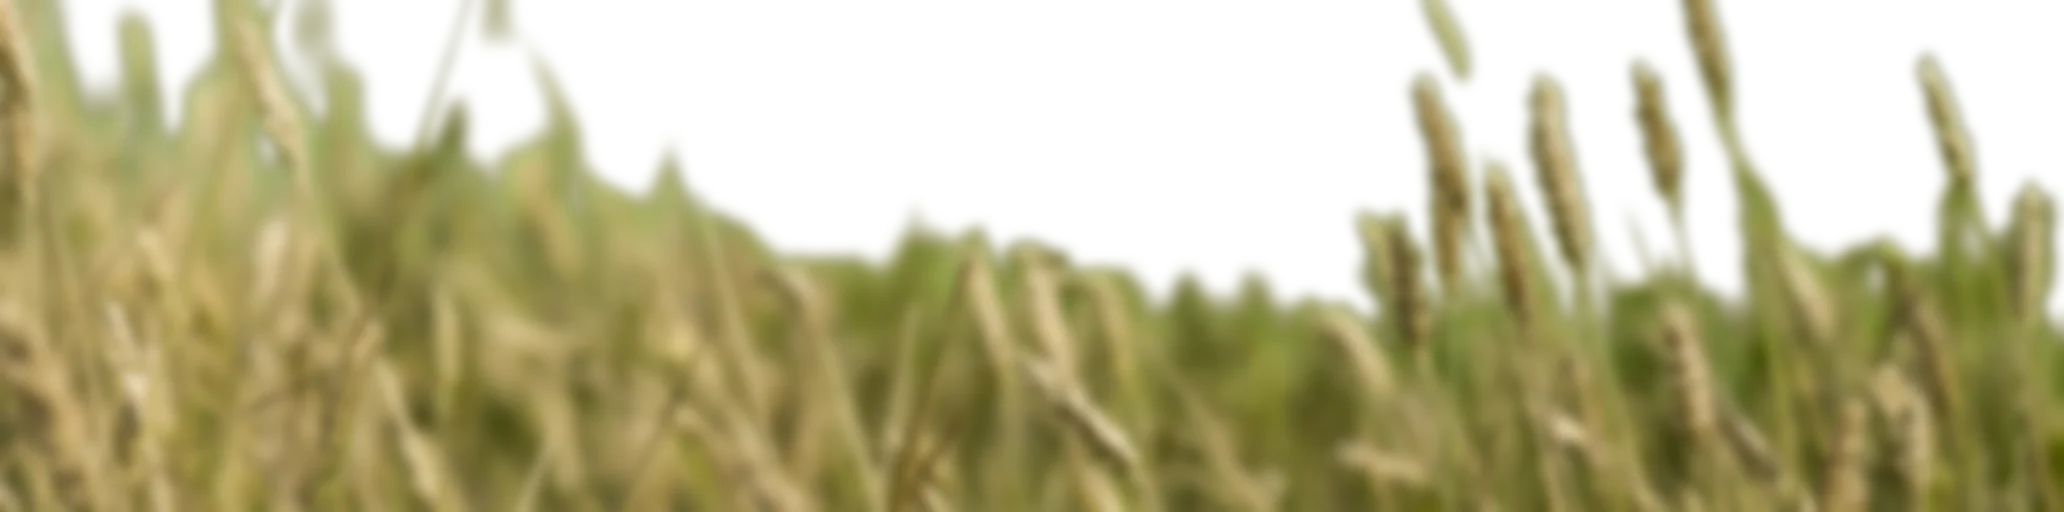
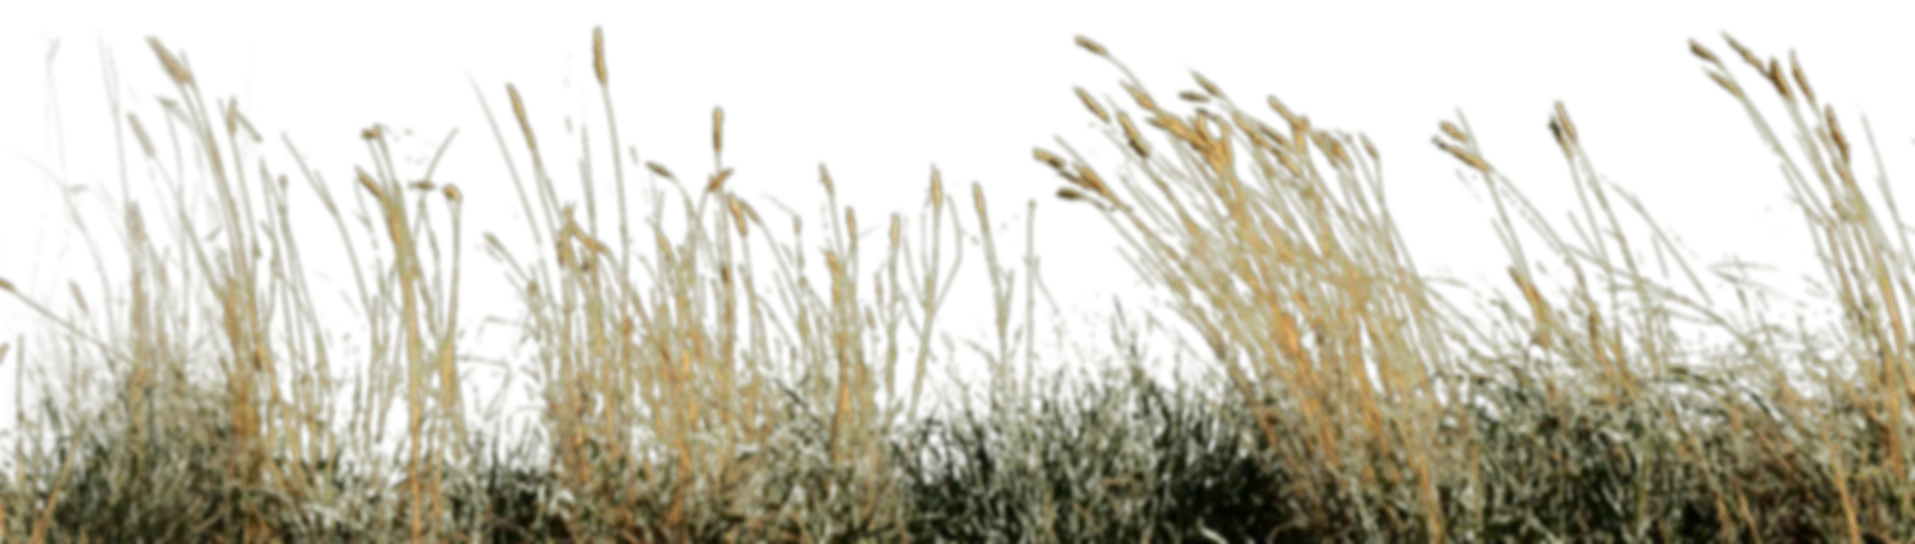
feat(scene): near grass from brief 15 G2; key generator green by sample
prepare.py keys the backdrop by its own colour, cross-fades the edges
into a seamless tile and blurs less, so thin stems survive. The intake
check samples the backdrop too.

diff --git a/src/app/scene/scene.model.ts b/src/app/scene/scene.model.ts
@@ -24,7 +24,7 @@ export const PHOTO = {
   berm: { width: 1792, height: 447, topPx: 8, basePx: 386 },
   ground: { width: 1792, height: 355, bermPx: 112 },
   gong: { width: 695, height: 901, plateDiameterPx: 389, plateCentrePx: { x: 350, y: 322 }, standBottomPx: 899 },
-  grass: { width: 2064, height: 512 },
+  grass: { width: 1915, height: 544 },
 } as const;
 
 export const HIT_MARK_COUNT = 5;

diff --git a/tools/scene/prepare.py b/tools/scene/prepare.py
@@ -1,9 +1,10 @@
 # -*- coding: utf-8 -*-
 """Prepares the generated scene photos (docs/design/img) for the scope renderer (public/scene).
 
-Run once after new photos arrive: python tools/scene/prepare.py
+Run once after new photos arrive: python tools/scene/prepare.py [layer ...]
 It prints the measured geometry; scene-layout.ts constants come from that output.
 """
+import sys
 from pathlib import Path
 
 from PIL import Image, ImageFilter
@@ -16,11 +17,17 @@ FILES = {
     'ground': 'Gemini_Generated_Image_e87ywue87ywue87y(3).jpg',
     'gong': 'Gemini_Generated_Image_e87ywue87ywue87y(1).jpg',
     'marks': 'Gemini_Generated_Image_1iaghz1iaghz1iag(1).jpg',
-    'grass': 'Gemini_Generated_Image_e87ywue87ywue87y(2).jpg',
+    'grass': 'dry_grass_stems_and_wheat_seed_heads_rising_from_the_bottom_e_15045f66-683b-45d8-91a5-82ababb012de_1.png',
 }
 WEBP_QUALITY = 86
 # The paint around the generated marks is light grey; it must turn pure white, or 'multiply' darkens the plate in a square.
 MARK_PAINT_LEVEL = 222
+# Brief 15 asks for #00FF00, generators give a dull green: key by distance to the backdrop's own colour.
+KEY_SOLID_DISTANCE = 34
+KEY_SOFT_DISTANCE = 70
+TILE_OVERLAP_SHARE = 0.12
+# The new stems are thin: a stronger blur turns them into ghosts.
+NEAR_GRASS_BLUR_PX = 2.5
 
 
 def load(key):
@@ -175,17 +182,57 @@ def prepare_marks():
     print(f'marks: {len(centres)} sprites {half * 2}x{half * 2} px')
 
 
+def backdrop_green(image):
+    top_row = sorted((image.getpixel((x, 0)) for x in range(0, image.width, 4)), key=lambda pixel: pixel[1])
+    return top_row[len(top_row) // 2][:3]
+
+
+def backdrop_to_alpha(image):
+    rgba = image.convert('RGBA')
+    backdrop = backdrop_green(rgba)
+    pixels = rgba.load()
+    for y in range(image.height):
+        for x in range(image.width):
+            red, green, blue, _ = pixels[x, y]
+            distance = sum((a - b) ** 2 for a, b in zip((red, green, blue), backdrop)) ** 0.5
+            if distance >= KEY_SOFT_DISTANCE:
+                continue
+            despilled = min(green, max(red, blue))
+            alpha = 0 if distance <= KEY_SOLID_DISTANCE else int(255 * (distance - KEY_SOLID_DISTANCE) / (KEY_SOFT_DISTANCE - KEY_SOLID_DISTANCE))
+            pixels[x, y] = (red, despilled, blue, alpha)
+    return rgba
+
+
+def tileable(image):
+    """Cross-fades the right edge into the left one, so copies side by side have no seam."""
+    overlap = int(image.width * TILE_OVERLAP_SHARE)
+    width = image.width - overlap
+    result = image.crop((0, 0, width, image.height))
+    tail = image.crop((width, 0, image.width, image.height))
+    head = image.crop((0, 0, overlap, image.height))
+    ramp = Image.linear_gradient('L').rotate(90).resize((overlap, image.height))
+    result.paste(Image.composite(head, tail, ramp.transpose(Image.FLIP_LEFT_RIGHT)), (0, 0))
+    return result
+
+
 def prepare_grass():
-    grass = chroma_to_alpha(load('grass'))
-    grass = grass.filter(ImageFilter.GaussianBlur(6))
+    grass = tileable(backdrop_to_alpha(load('grass')))
+    grass = grass.filter(ImageFilter.GaussianBlur(NEAR_GRASS_BLUR_PX))
     save(grass, 'grass')
     print(f'grass: {grass.width}x{grass.height}, blurred')
 
 
+
+LAYERS = {
+    'sky': lambda: prepare_sky(),
+    'berm': lambda: prepare_berm(),
+    'ground': lambda: prepare_ground(),
+    'gong': lambda: prepare_gong(),
+    'marks': lambda: prepare_marks(),
+    'grass': lambda: prepare_grass(),
+}
+
+
 if __name__ == '__main__':
-    prepare_sky()
-    prepare_berm()
-    prepare_ground()
-    prepare_gong()
-    prepare_marks()
-    prepare_grass()
+    for layer in sys.argv[1:] or LAYERS:
+        LAYERS[layer]()

diff --git a/tools/assets/check_inbox.py b/tools/assets/check_inbox.py
@@ -34,11 +34,30 @@ SEAM_MAX_COLOUR_STEP = 18
 HORIZON_MAX_WOBBLE = 0.01
 EMPTY_GREEN_SHARE = 0.98
 BORDER_GREEN_SHARE = 0.95
+CHROMA_GREEN = (0, 255, 0)
+GREENISH_MARGIN = 20
+MIN_GREEN_TOP_SHARE = 0.5
+BACKGROUND_MAX_DISTANCE = 70
 
 
-def is_chroma_green(pixel):
+def is_greenish(pixel):
     red, green, blue = pixel[:3]
-    return green > 150 and green - max(red, blue) > 70
+    return green - max(red, blue) > GREENISH_MARGIN
+
+
+def background_reference(image):
+    """Generators rarely give pure #00FF00: the key colour is the median green of the top row."""
+    rgb = image.convert('RGB')
+    top_row = [rgb.getpixel((x, 0)) for x in range(0, rgb.width, max(1, rgb.width // 128))]
+    greens = [pixel for pixel in top_row if is_greenish(pixel)]
+    if len(greens) < len(top_row) * MIN_GREEN_TOP_SHARE:
+        return CHROMA_GREEN
+    return tuple(sorted(pixel[channel] for pixel in greens)[len(greens) // 2] for channel in range(3))
+
+
+def is_background(pixel, reference):
+    distance = math.sqrt(sum((a - b) ** 2 for a, b in zip(pixel[:3], reference)))
+    return is_greenish(pixel) and distance <= BACKGROUND_MAX_DISTANCE
 
 
 @dataclass
@@ -104,8 +123,9 @@ def downsampled(image):
 
 def green_mask(image):
     width, height = image.size
+    reference = background_reference(image)
     pixels = list(image.convert('RGB').getdata())
-    return [[is_chroma_green(pixels[y * width + x]) for x in range(width)] for y in range(height)]
+    return [[is_background(pixels[y * width + x], reference) for x in range(width)] for y in range(height)]
 
 
 def share(values):
@@ -126,12 +146,13 @@ def check_size(verdict, image, spec):
 
 def check_seam(verdict, image):
     rgb = image.convert('RGB')
+    reference = background_reference(rgb)
     width, height = rgb.size
     steps = []
     for y in range(0, height, max(1, height // 64)):
         left = rgb.getpixel((0, y))
         right = rgb.getpixel((width - 1, y))
-        if is_chroma_green(left) and is_chroma_green(right):
+        if is_background(left, reference) and is_background(right, reference):
             continue
         steps.append(sum(abs(a - b) for a, b in zip(left, right)) / 3)
     mean_step = share(steps)
@@ -285,9 +306,10 @@ def check_icon(verdict, image):
 
 def cutout(image):
     rgba = image.convert('RGBA')
+    reference = background_reference(rgba)
     pixels = []
     for red, green, blue, alpha in rgba.getdata():
-        if is_chroma_green((red, green, blue)):
+        if is_background((red, green, blue), reference):
             pixels.append((0, 0, 0, 0))
             continue
         spill_free_green = min(green, max(red, blue))

diff --git a/tools/assets/test_check_inbox.py b/tools/assets/test_check_inbox.py
@@ -13,13 +13,14 @@ import check_inbox as inbox  # noqa: E402
 GREEN = (0, 255, 0)
 FLAG_RED = (224, 72, 47)
 POLE_DARK = (30, 30, 30)
+DARK_GENERATOR_GREEN = (25, 105, 60)
 FLAG_LENGTH_PX = 600
 FLAG_WIDTH_PX = 360
 FOLDS_WIDTH_PX = 60
 
 
-def flag_image(angle_deg, attach=(160, 160), wave_px=0):
-    image = Image.new('RGB', (1024, 1024), GREEN)
+def flag_image(angle_deg, attach=(160, 160), wave_px=0, background=GREEN):
+    image = Image.new('RGB', (1024, 1024), background)
     draw = ImageDraw.Draw(image)
     attach_x, attach_y = attach
     draw.rectangle([attach_x - 4, 0, attach_x + 4, 1023], fill=POLE_DARK)
@@ -49,6 +50,11 @@ class FlagTest(unittest.TestCase):
             result = verdict()
             inbox.check_flag(result, flag_image(angle), f'F1-flag-{angle}-a')
             self.assertEqual(failed(result), set(), (angle, [check.detail for check in result.checks]))
+
+    def test_flag_on_dark_generator_green_passes(self):
+        result = verdict()
+        inbox.check_flag(result, flag_image(45, background=DARK_GENERATOR_GREEN), 'F1-flag-45-a')
+        self.assertEqual(failed(result), set(), [check.detail for check in result.checks])
 
     def test_wrong_angle_fails(self):
         result = verdict()
@@ -153,6 +159,11 @@ class FrameTest(unittest.TestCase):
         cut = inbox.cutout(image)
         self.assertEqual(cut.getpixel((0, 0))[3], 0)
         self.assertEqual(cut.getpixel((1, 0)), FLAG_RED + (255,))
+        lime = Image.new('RGB', (4, 1), (120, 200, 90))
+        lime.putpixel((1, 0), FLAG_RED)
+        lime_cut = inbox.cutout(lime)
+        self.assertEqual(lime_cut.getpixel((0, 0))[3], 0)
+        self.assertEqual(lime_cut.getpixel((1, 0))[3], 255)
 
     def test_task_of_name(self):
         self.assertEqual(inbox.task_of('F2-rail-a'), 'F2-rail')

diff --git a/docs/code/specs/app-scene-photos.md b/docs/code/specs/app-scene-photos.md
@@ -24,7 +24,7 @@
 - **Земля.** Нижняя часть S2 первого набора: от низа вала вниз. В том кадре вал 2 м = 110 px на 300 м, то есть 16,5 px на MIL; земля ниже вала — ~22 MIL, это ровно полоса от цели до ~25 м перед стрелком при глазе в 0,5 м. Для другой дистанции слой масштабируется как 300 / D.
 - **Небо** — всё выше вала: верх S1 до его горизонта, растянутый на ширину стекла, сдвигается с прицелом в 4 раза медленнее (оно бесконечно далеко, но в кадре S1 масштаб меньше — так небо не «едет» лентой).
 - **Отметины** — на пластине в точке попадания, 5 см → 50 / D MIL, режим «умножение» (белое исчезает). Промахи — точками, как сейчас.
-- **Ближняя трава** — стоит в мире, в ~8 м перед стрелком: верхушки на 6 MIL ниже горизонта, горизонт на 500 / D MIL выше земли под целью. Двигается вместе со сценой при наведении (автор: «трава двигается вместе с прицелом, как наклейка» — первая версия была приклеена к стеклу). На 3× видна внизу, на 12× — только если целиться низко. Заранее размыта, качается по боковому ветру.
+- **Ближняя трава** — стоит в мире, в ~8 м перед стрелком: верхушки на 6 MIL ниже горизонта, горизонт на 500 / D MIL выше земли под целью. Двигается вместе со сценой при наведении (автор: «трава двигается вместе с прицелом, как наклейка» — первая версия была приклеена к стеклу). На 3× видна внизу, на 12× — только если целиться низко. Заранее размыта, качается по боковому ветру. С 11.11 — колосья G2 из брифа 15: фон вырезан по его собственному зелёному, края склеены без шва (`prepare.py grass`), размытие 2,5 px — сильнее стирает тонкие стебли.
 - **Флажки** стоят на земле своей дистанции (на 500 / d MIL ниже горизонта); флажки дальше цели — за валом, их не рисуем.
 - **Пределы наведения** (автор: «не можем опустить ниже определённого места или выше, чтобы не вылазить за пределы картинки»): нижний край поля зрения — не ниже конца фото земли, верхний — не выше 6 MIL неба над валом, вбок — ±20 MIL. Цель и вынос ±6 MIL доступны всегда, даже когда поле зрения больше сцены (3×, 1000 м). Упор — при перетаскивании: если прицел уже за пределом после поворота барабана, дальше не пускает, назад — можно. Пределы пересчитываются при смене кратности, цели или сессии; прицел за пределом возвращается внутрь.
 

diff --git a/docs/design/briefs/15-media-generation.md b/docs/design/briefs/15-media-generation.md
@@ -13,7 +13,7 @@
 | небо `sky.webp` | S1, первый набор: только небо, дальний план мелкий (R3) |
 | вал `berm.webp` | R2a, второй набор — принят |
 | земля у цели `ground.webp` | S2-300, первый набор — **временно**, мало пикселей → G1 |
-| ближняя трава `grass.webp` | S3, первый набор — **временно** → G2 |
+| ближняя трава `grass.webp` | **G2 стоит с 11.11** (`15045f66_1`, 2176 × 544): фон вырезан по его собственному зелёному, края склеены без шва, размытие 2,5 px. Меньше брифа (≥ 4096), но ближний слой и так размыт — хватает |
 | гонг `gong.webp` | T1 — принят |
 | отметины `mark-0…4.webp` | R5 — приняты |
 
@@ -341,6 +341,18 @@ centred, bold simple shapes readable at small sizes, no text, no letters, no gun
 4. **G3, G4** — полевой рубеж 12 (A9.2).
 5. **I1, I2** — вводное 00.
 6. **U1**, затем по желанию **U2**.
+
+## Что пришло 11.11 и что стоит в игре
+
+| Задание | Пришло | В игре | Почему |
+| --- | --- | --- | --- |
+| G1 земля | 2176 × 544 и превью 896 × 224 | нет | везде срез «валик травы над полосой почвы» с фоном или чёрным сверху, а нужна сплошная текстура на весь кадр |
+| G2 трава | 2176 × 544 и превью | **да**, `15045f66_1` | см. таблицу выше |
+| G3 холмы | 896 × 224 | нет | хороши по виду, но малы, и полевого рубежа 12 ещё нет (A9.2); кандидаты `4efd00fa_1`, `c6d0031_10`, `66d24efd_8` |
+| G4 степь | 2688 × 448 | нет | горизонт прямой, но рубежа 12 ещё нет (A9.2); кандидаты — серия `6a8d09cb` |
+| F1 флажки | 512 × 512 | нет | фон неровный (у пяти — небо), шест в разных местах, нет состояний 0°, 25°, 80° и пар кадров; флажки в сцене — A9.3 |
+
+Генераторы не дают чистый `#00FF00`: фон тёмно- или светло-зелёный. И проверка приёмки, и `prepare.py` берут цвет фона из верхнего ряда самой картинки.
 
 ## Что я сделаю с файлами
 

diff --git a/docs/ASSETS.md b/docs/ASSETS.md
@@ -13,7 +13,7 @@
 | Небо, ясный день | 2–3 варианта | панорама или широкое фото, ≥ 4096 px по ширине, без солнца в кадре, JPG / HDR | Poly Haven (HDRI, CC0), Unsplash | ✓ есть (`public/scene/sky.webp`, A9.1) |
 | Дальний план: холмы, лесополоса, горы на горизонте | 3–4 | фото с ровным горизонтом, ≥ 4096 px, вырезается по силуэту — лучше на светлом небе | Poly Haven, Unsplash, Pexels | ты |
 | Средний план: поле, степь, вал, бруствер | 3–4 | фото сбоку на уровне глаз, ≥ 4096 px | там же | ✓ есть (`berm.webp`, `ground.webp`) |
-| Трава переднего плана | 2–3 текстуры | PNG с прозрачностью, отдельные кусты травы и колосья | Poly Haven, ambientCG (CC0) | ✓ есть (`grass.webp`) |
+| Трава переднего плана | 2–3 текстуры | PNG с прозрачностью, отдельные кусты травы и колосья | Poly Haven, ambientCG (CC0) | ✓ есть (`grass.webp`, G2 из брифа 15 с 11.11) |
 | Гонг на ножках, стальная пластина | 3 размера | вид спереди, PNG с прозрачностью или чертёж для отрисовки; фото настоящих гонгов как референс | фото — твои / интернет как референс | ✓ гонг есть (`gong.webp`, следы `mark-0…4.webp`); бумажная мишень 02 — A9.2 |
 | Ростовая и грудная фигура (позже) | 2 | силуэт по нормативу, SVG | FM 23-10 (E-type) как референс | дизайнер |
 | Подвижная мишень: гонг на тележке или фигура (М1) | 1–2 | вид спереди, PNG или SVG; анимация шага для фигуры | референс — фото стрельбищ | дизайнер |
